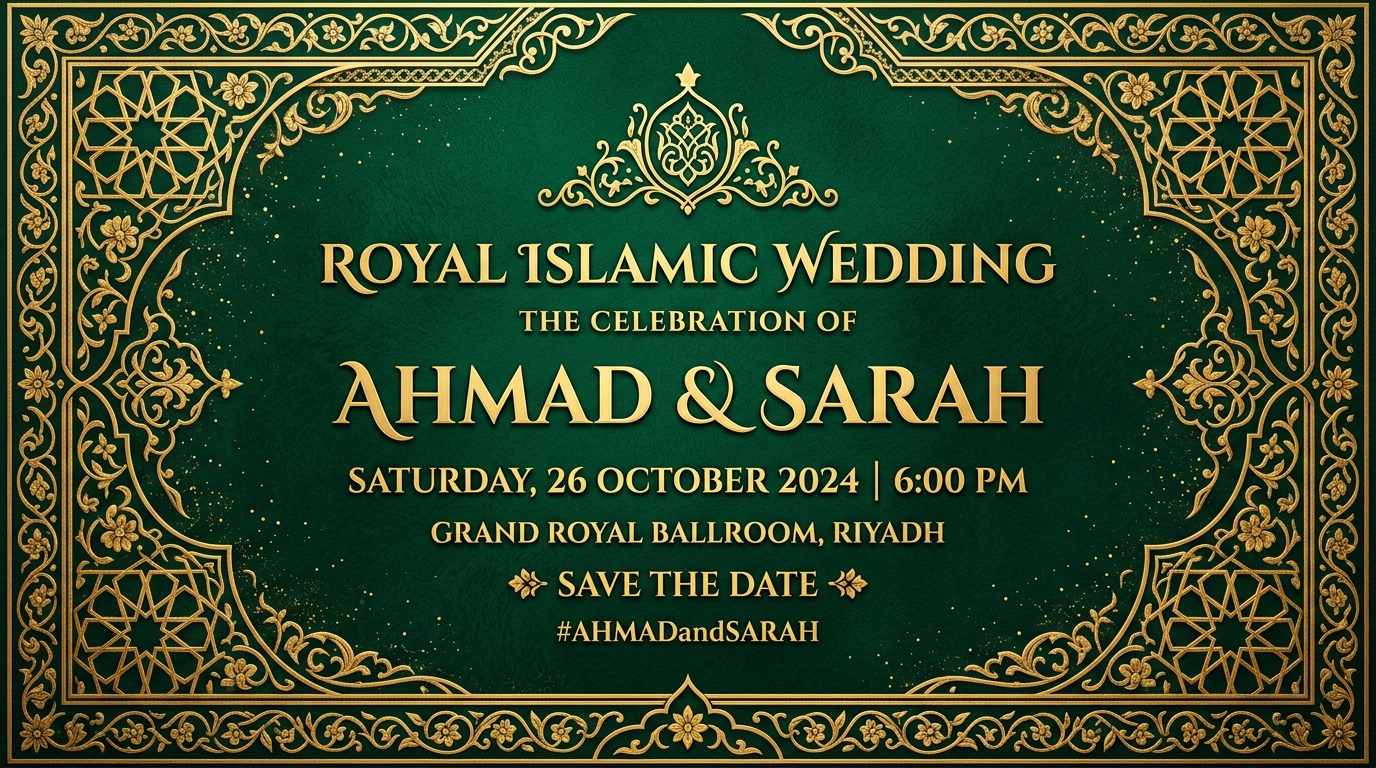
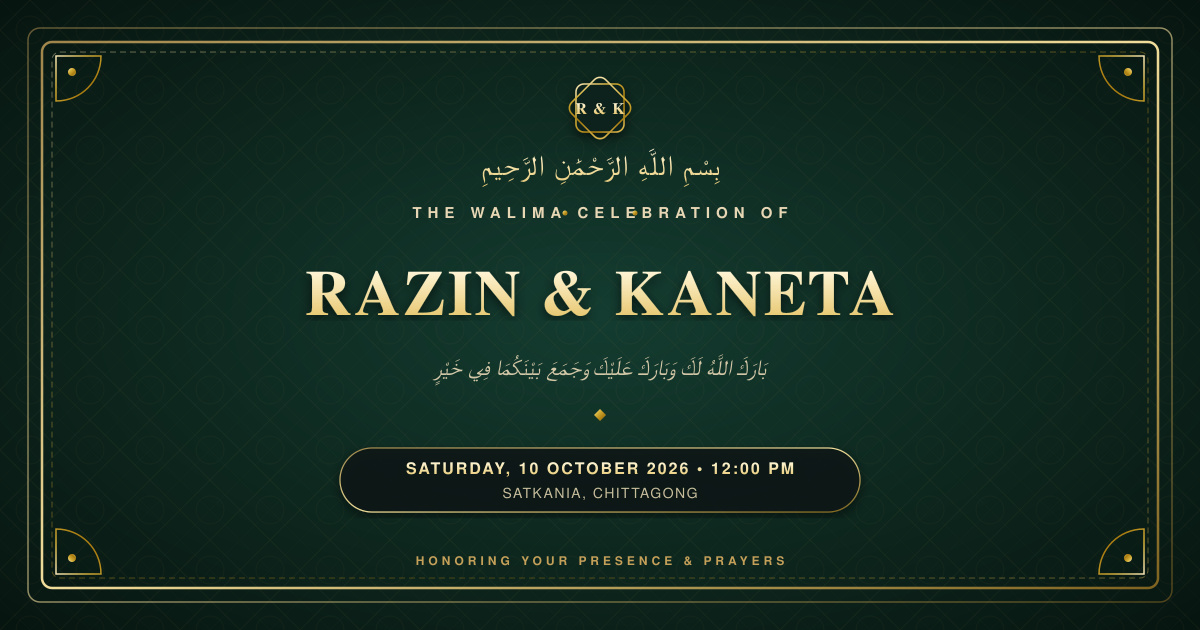
feat: add OG image generation script
Integrate `sharp` to programmatically generate Open Graph images for the invitation, ensuring dynamic and consistent social preview metadata.

diff --git a/scripts/generate-og.js b/scripts/generate-og.js
@@ -1,0 +1,165 @@
+import sharp from 'sharp';
+import fs from 'fs';
+import path from 'path';
+
+const width = 1200;
+const height = 630;
+
+// High-fidelity Islamic Luxury Wedding Invitation Card SVG
+const svg = `
+<svg width="${width}" height="${height}" viewBox="0 0 ${width} ${height}" xmlns="http://www.w3.org/2000/svg">
+  <defs>
+    <!-- Background Gradient -->
+    <radialGradient id="bgGrad" cx="50%" cy="50%" r="75%">
+      <stop offset="0%" stop-color="#143c30" />
+      <stop offset="60%" stop-color="#0c231b" />
+      <stop offset="100%" stop-color="#06120e" />
+    </radialGradient>
+
+    <!-- Gold Gradients -->
+    <linearGradient id="goldGrad" x1="0%" y1="0%" x2="100%" y2="100%">
+      <stop offset="0%" stop-color="#F9E8B8" />
+      <stop offset="35%" stop-color="#D4AF37" />
+      <stop offset="70%" stop-color="#AA7C11" />
+      <stop offset="100%" stop-color="#E5C158" />
+    </linearGradient>
+
+    <linearGradient id="goldLight" x1="0%" y1="0%" x2="0%" y2="100%">
+      <stop offset="0%" stop-color="#FFF5D6" />
+      <stop offset="100%" stop-color="#E8C974" />
+    </linearGradient>
+
+    <linearGradient id="borderGrad" x1="0%" y1="0%" x2="100%" y2="100%">
+      <stop offset="0%" stop-color="#C5A059" stop-opacity="0.8" />
+      <stop offset="50%" stop-color="#F2DE9C" stop-opacity="1" />
+      <stop offset="100%" stop-color="#9C7624" stop-opacity="0.8" />
+    </linearGradient>
+
+    <!-- Islamic Geometric Pattern for Background Ambience -->
+    <pattern id="islamicPattern" width="60" height="60" patternUnits="userSpaceOnUse">
+      <path d="M 30,0 L 60,30 L 30,60 L 0,30 Z" fill="none" stroke="#C5A059" stroke-width="0.75" stroke-opacity="0.08" />
+      <circle cx="30" cy="30" r="14" fill="none" stroke="#C5A059" stroke-width="0.75" stroke-opacity="0.06" />
+      <path d="M 0,0 L 60,60 M 60,0 L 0,60" stroke="#C5A059" stroke-width="0.5" stroke-opacity="0.04" />
+    </pattern>
+
+    <filter id="shadow" x="-10%" y="-10%" width="120%" height="120%">
+      <feDropShadow dx="0" dy="4" stdDeviation="6" flood-color="#000000" flood-opacity="0.6"/>
+    </filter>
+  </defs>
+
+  <!-- Deep Emerald Backdrop -->
+  <rect width="${width}" height="${height}" fill="url(#bgGrad)" />
+  <rect width="${width}" height="${height}" fill="url(#islamicPattern)" />
+
+  <!-- Outer Fine Border -->
+  <rect x="28" y="28" width="${width - 56}" height="${height - 56}" rx="12" fill="none" stroke="url(#borderGrad)" stroke-width="1.5" stroke-opacity="0.6" />
+
+  <!-- Main Ornate Border Frame -->
+  <rect x="42" y="42" width="${width - 84}" height="${height - 84}" rx="10" fill="none" stroke="url(#borderGrad)" stroke-width="2.5" />
+
+  <!-- Inner Inset Line -->
+  <rect x="52" y="52" width="${width - 104}" height="${height - 104}" rx="8" fill="none" stroke="url(#goldGrad)" stroke-width="1" stroke-opacity="0.4" stroke-dasharray="6,4" />
+
+  <!-- Corner Arabesques (Top-Left) -->
+  <g transform="translate(56, 56)">
+    <path d="M 0,0 L 45,0 C 45,25 25,45 0,45 Z" fill="none" stroke="url(#goldGrad)" stroke-width="1.5" />
+    <circle cx="16" cy="16" r="4" fill="url(#goldGrad)" />
+  </g>
+  <!-- Corner Arabesques (Top-Right) -->
+  <g transform="translate(${width - 56}, 56) scale(-1, 1)">
+    <path d="M 0,0 L 45,0 C 45,25 25,45 0,45 Z" fill="none" stroke="url(#goldGrad)" stroke-width="1.5" />
+    <circle cx="16" cy="16" r="4" fill="url(#goldGrad)" />
+  </g>
+  <!-- Corner Arabesques (Bottom-Left) -->
+  <g transform="translate(56, ${height - 56}) scale(1, -1)">
+    <path d="M 0,0 L 45,0 C 45,25 25,45 0,45 Z" fill="none" stroke="url(#goldGrad)" stroke-width="1.5" />
+    <circle cx="16" cy="16" r="4" fill="url(#goldGrad)" />
+  </g>
+  <!-- Corner Arabesques (Bottom-Right) -->
+  <g transform="translate(${width - 56}, ${height - 56}) scale(-1, -1)">
+    <path d="M 0,0 L 45,0 C 45,25 25,45 0,45 Z" fill="none" stroke="url(#goldGrad)" stroke-width="1.5" />
+    <circle cx="16" cy="16" r="4" fill="url(#goldGrad)" />
+  </g>
+
+  <!-- Central Top Monogram Crest -->
+  <g transform="translate(600, 108)" filter="url(#shadow)">
+    <!-- Star medallion -->
+    <rect x="-24" y="-24" width="48" height="48" rx="8" fill="#0c231b" stroke="url(#goldGrad)" stroke-width="1.5" />
+    <rect x="-24" y="-24" width="48" height="48" rx="8" transform="rotate(45)" fill="none" stroke="url(#goldGrad)" stroke-width="1.5" />
+    <text x="0" y="6" text-anchor="middle" font-family="Cinzel, Georgia, serif" font-size="16" font-weight="700" fill="url(#goldLight)" letter-spacing="1">R &amp; K</text>
+  </g>
+
+  <!-- Sacred Bismillah Calligraphy (Text representation) -->
+  <text x="600" y="175" text-anchor="middle" font-family="'Amiri', 'Traditional Arabic', 'Scheherazade New', serif" font-size="28" font-weight="400" fill="url(#goldLight)" letter-spacing="1">
+    بِسْمِ اللَّهِ الرَّحْمَٰنِ الرَّحِيمِ
+  </text>
+
+  <!-- Subtitle Tagline -->
+  <g transform="translate(600, 218)">
+    <line x1="-160" y1="-5" x2="-40" y2="-5" stroke="url(#goldGrad)" stroke-width="1" stroke-opacity="0.6" />
+    <circle cx="-35" cy="-5" r="2.5" fill="url(#goldGrad)" />
+    <text x="0" y="0" text-anchor="middle" font-family="Cinzel, 'Plus Jakarta Sans', sans-serif" font-size="15" font-weight="600" fill="#E8D7B5" letter-spacing="6">
+      THE WALIMA CELEBRATION OF
+    </text>
+    <circle cx="35" cy="-5" r="2.5" fill="url(#goldGrad)" />
+    <line x1="40" y1="-5" x2="160" y2="-5" stroke="url(#goldGrad)" stroke-width="1" stroke-opacity="0.6" />
+  </g>
+
+  <!-- Couple Names - Magnificent Royal Typography -->
+  <text x="600" y="315" text-anchor="middle" filter="url(#shadow)" font-family="'Noto Serif Bengali', Cinzel, Georgia, serif" font-size="64" font-weight="700" fill="url(#goldLight)" letter-spacing="2">
+    RAZIN &amp; KANETA
+  </text>
+
+  <!-- Prophetic Dua / Blessing -->
+  <text x="600" y="375" text-anchor="middle" font-family="'Amiri', 'Traditional Arabic', serif" font-size="22" font-style="italic" fill="#E8D7B5" fill-opacity="0.9">
+    بَارَكَ اللَّهُ لَكَ وَبَارَكَ عَلَيْكَ وَجَمَعَ بَيْنَكُمَا فِي خَيْرٍ
+  </text>
+
+  <!-- Divider Ribbon -->
+  <g transform="translate(600, 415)">
+    <line x1="-220" y1="0" x2="220" y2="0" stroke="url(#goldGrad)" stroke-width="1" stroke-opacity="0.5" />
+    <polygon points="0,-6 6,0 0,6 -6,0" fill="url(#goldGrad)" />
+  </g>
+
+  <!-- Date, Time & Venue Badge Box -->
+  <g transform="translate(600, 480)" filter="url(#shadow)">
+    <!-- Pill container -->
+    <rect x="-260" y="-32" width="520" height="64" rx="32" fill="#081712" fill-opacity="0.85" stroke="url(#borderGrad)" stroke-width="1.2" />
+
+    <!-- Date & Time -->
+    <text x="0" y="-6" text-anchor="middle" font-family="Cinzel, 'Plus Jakarta Sans', sans-serif" font-size="16" font-weight="700" fill="url(#goldLight)" letter-spacing="2">
+      SATURDAY, 10 OCTOBER 2026  •  12:00 PM
+    </text>
+
+    <!-- Venue Location -->
+    <text x="0" y="18" text-anchor="middle" font-family="'Plus Jakarta Sans', sans-serif" font-size="14" font-weight="500" fill="#E8D7B5" fill-opacity="0.85" letter-spacing="1.5">
+      SATKANIA, CHITTAGONG
+    </text>
+  </g>
+
+  <!-- Bottom Elegant Footer -->
+  <text x="600" y="565" text-anchor="middle" font-family="Cinzel, 'Plus Jakarta Sans', sans-serif" font-size="12" font-weight="600" fill="#C5A059" letter-spacing="4">
+    HONORING YOUR PRESENCE &amp; PRAYERS
+  </text>
+</svg>
+`;
+
+async function generate() {
+  const publicOut = path.resolve('public', 'og-preview.jpg');
+  const distDir = path.resolve('dist');
+  const distOut = path.resolve('dist', 'og-preview.jpg');
+
+  const buffer = await sharp(Buffer.from(svg))
+    .jpeg({ quality: 95, chromaSubsampling: '4:4:4' })
+    .toBuffer();
+
+  fs.writeFileSync(publicOut, buffer);
+  console.log('Saved to ' + publicOut);
+
+  if (fs.existsSync(distDir)) {
+    fs.writeFileSync(distOut, buffer);
+    console.log('Saved to ' + distOut);
+  }
+}
+
+generate().catch(console.error);

diff --git a/index.html b/index.html
@@ -7,14 +7,18 @@
     <meta name="description" content="Walima wedding invitation for Razin &amp; Kaneta." />
     <meta property="og:title" content="Razin &amp; Kaneta" />
     <meta property="og:description" content="Walima wedding invitation for Razin &amp; Kaneta." />
-    <meta property="og:image" content="/og-preview.jpg" />
+    <meta property="og:image" content="https://a-z-prog.github.io/Nikkah-Invitation/og-preview.jpg" />
+    <meta property="og:image:secure_url" content="https://a-z-prog.github.io/Nikkah-Invitation/og-preview.jpg" />
+    <meta property="og:image:type" content="image/jpeg" />
     <meta property="og:image:width" content="1200" />
-    <meta property="og:image:height" content="675" />
+    <meta property="og:image:height" content="630" />
+    <meta property="og:image:alt" content="Razin &amp; Kaneta - Walima Invitation" />
     <meta property="og:type" content="website" />
+    <meta property="og:site_name" content="Razin &amp; Kaneta" />
     <meta name="twitter:card" content="summary_large_image" />
     <meta name="twitter:title" content="Razin &amp; Kaneta" />
     <meta name="twitter:description" content="Walima wedding invitation for Razin &amp; Kaneta." />
-    <meta name="twitter:image" content="/og-preview.jpg" />
+    <meta name="twitter:image" content="https://a-z-prog.github.io/Nikkah-Invitation/og-preview.jpg" />
     <link rel="preconnect" href="https://fonts.googleapis.com">
     <link rel="preconnect" href="https://fonts.gstatic.com" crossorigin>
     <link href="https://fonts.googleapis.com/css2?family=Amiri:ital,wght@0,400;0,700;1,400&family=Cinzel:wght@400;600;700&family=Hind+Siliguri:wght@300;400;500;600;700&family=Noto+Serif+Bengali:wght@400;500;600;700&family=Plus+Jakarta+Sans:wght@400;500;600;700&display=swap" rel="stylesheet">
